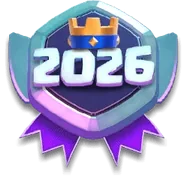
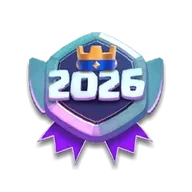
Badges: no more chests standing in for badges, 2026 Year Badge drawn the same size as the rest
Event completions with no art anywhere now show the placeholder badge instead of a chest. The
saved 2026 Year Badge copy filled its whole canvas, so it drew bigger than every other badge; the
saver now shrinks edge-to-edge art into the game's padded frame and reframed that copy. The July
2025 seasonal badge (SeasonalBadge_202507_v2) is labelled Season Jul 2025.

diff --git a/src/app/player/[tag]/Badges.tsx b/src/app/player/[tag]/Badges.tsx
@@ -30,8 +30,8 @@ function pillOf(b: Badge): string | null {
 }
 
 /**
- * Real game art for badges the official CDN doesn't serve: a mastery badge shows its card, a year
- * badge the experience star with the year on it, and event completions the chest they reward.
+ * Real game art for badges the official CDN doesn't serve: a mastery badge shows its card and a
+ * year badge the experience star with the year on it. Anything else gets the placeholder badge.
  */
 function standIn(b: Badge): { src: string; year?: string } | null {
   const mastery = /^Mastery(.+)$/.exec(b.id);
@@ -42,7 +42,6 @@ function standIn(b: Badge): { src: string; year?: string } | null {
   }
   const year = /^(\d{4})YearBadge$/.exec(b.id);
   if (year) return { src: '/ui/experience.webp', year: year[1] };
-  if (/Completion$/.test(b.id)) return { src: /Draft/.test(b.id) ? '/ui/chest-draft.webp' : '/ui/chest-kinglegendary.webp' };
   return null;
 }
 

diff --git a/src/lib/player/profile.ts b/src/lib/player/profile.ts
@@ -250,9 +250,9 @@ export function modeLabel(b: Battle): string {
   return 'Event';
 }
 
-/** "MasteryGoblinGiant" → "Goblin Giant", "SeasonalBadge_202510" → "Season Oct 2026". */
+/** "MasteryGoblinGiant" → "Goblin Giant", "SeasonalBadge_202510" → "Season Oct 2025". */
 function badgeLabel(name: string): string {
-  const season = /^SeasonalBadge_(\d{4})(\d{2})$/.exec(name);
+  const season = /^SeasonalBadge_(\d{4})(\d{2})(_v\d+)?$/.exec(name);
   if (season) {
     const mon = ['Jan', 'Feb', 'Mar', 'Apr', 'May', 'Jun', 'Jul', 'Aug', 'Sep', 'Oct', 'Nov', 'Dec'][+season[2] - 1];
     return `Season ${mon} ${season[1]}`;
